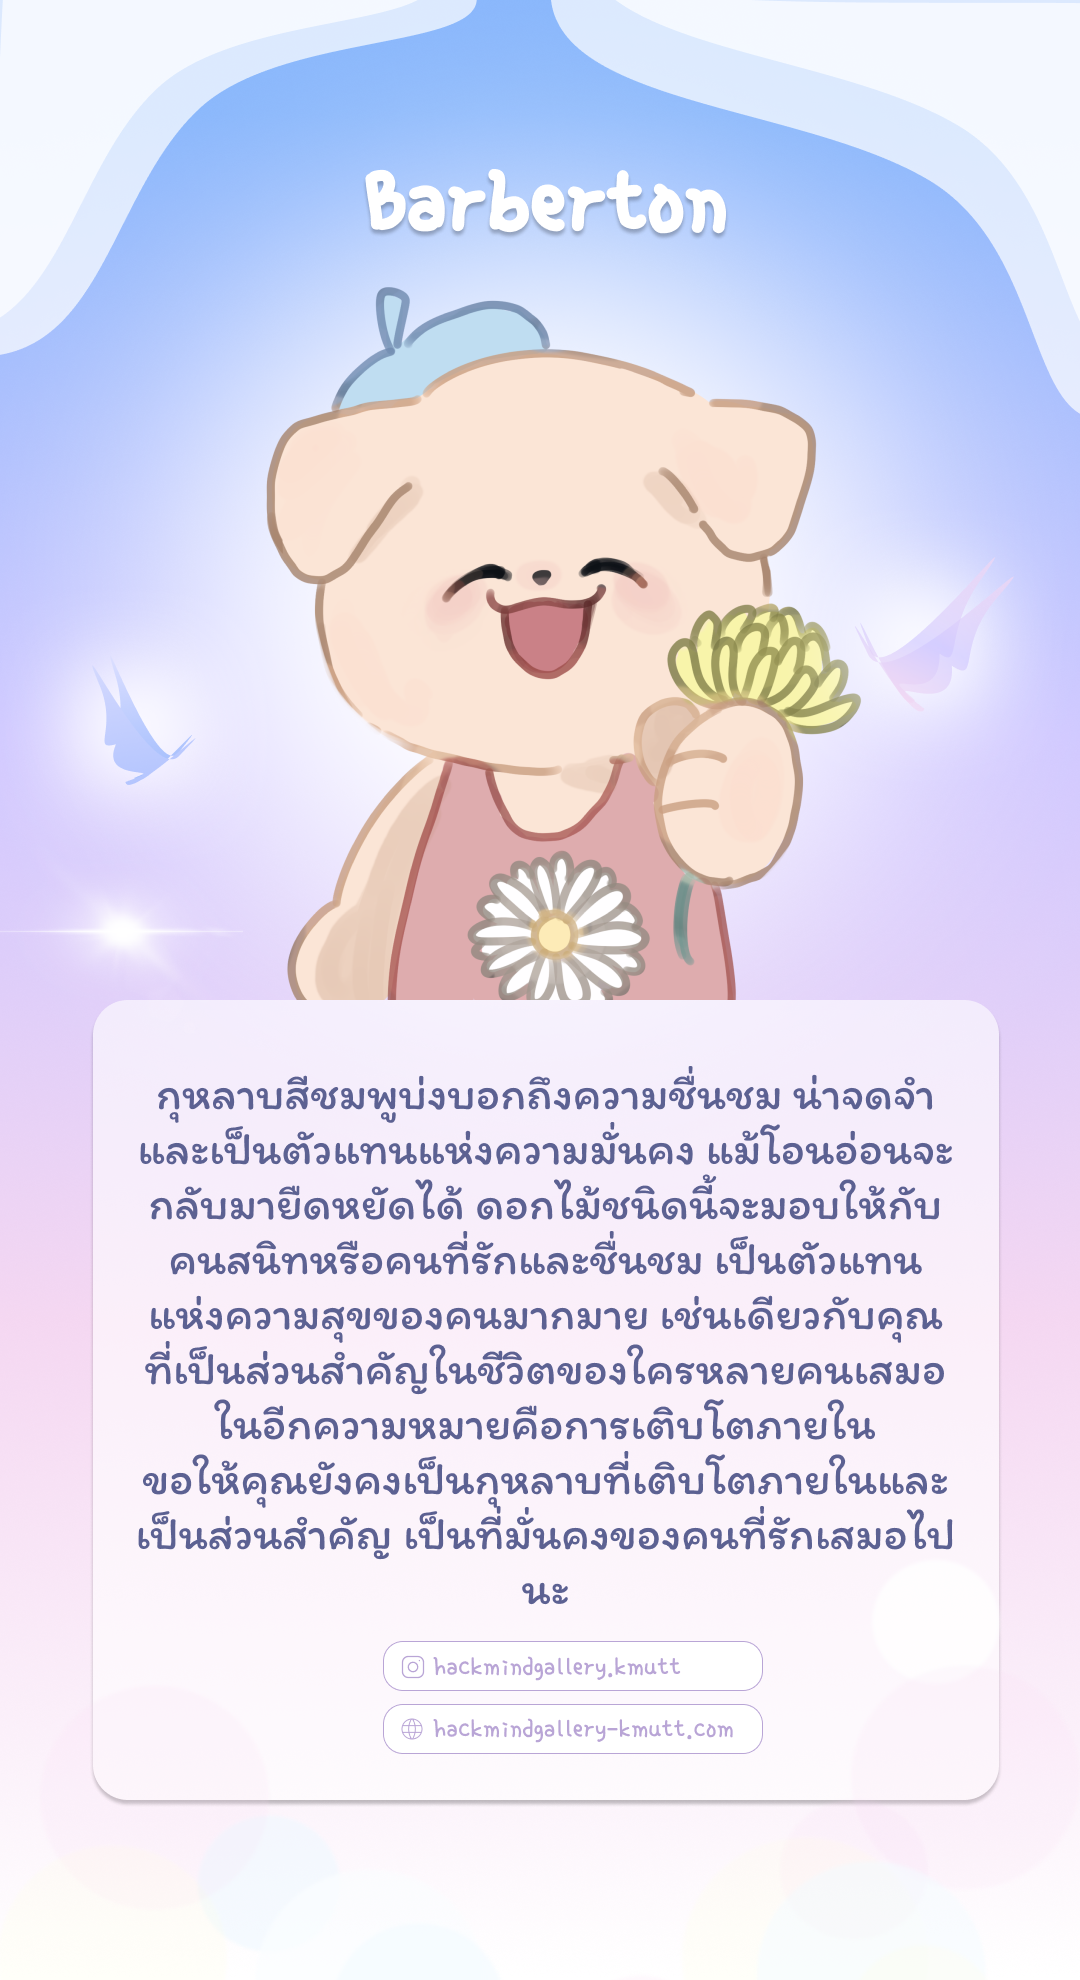
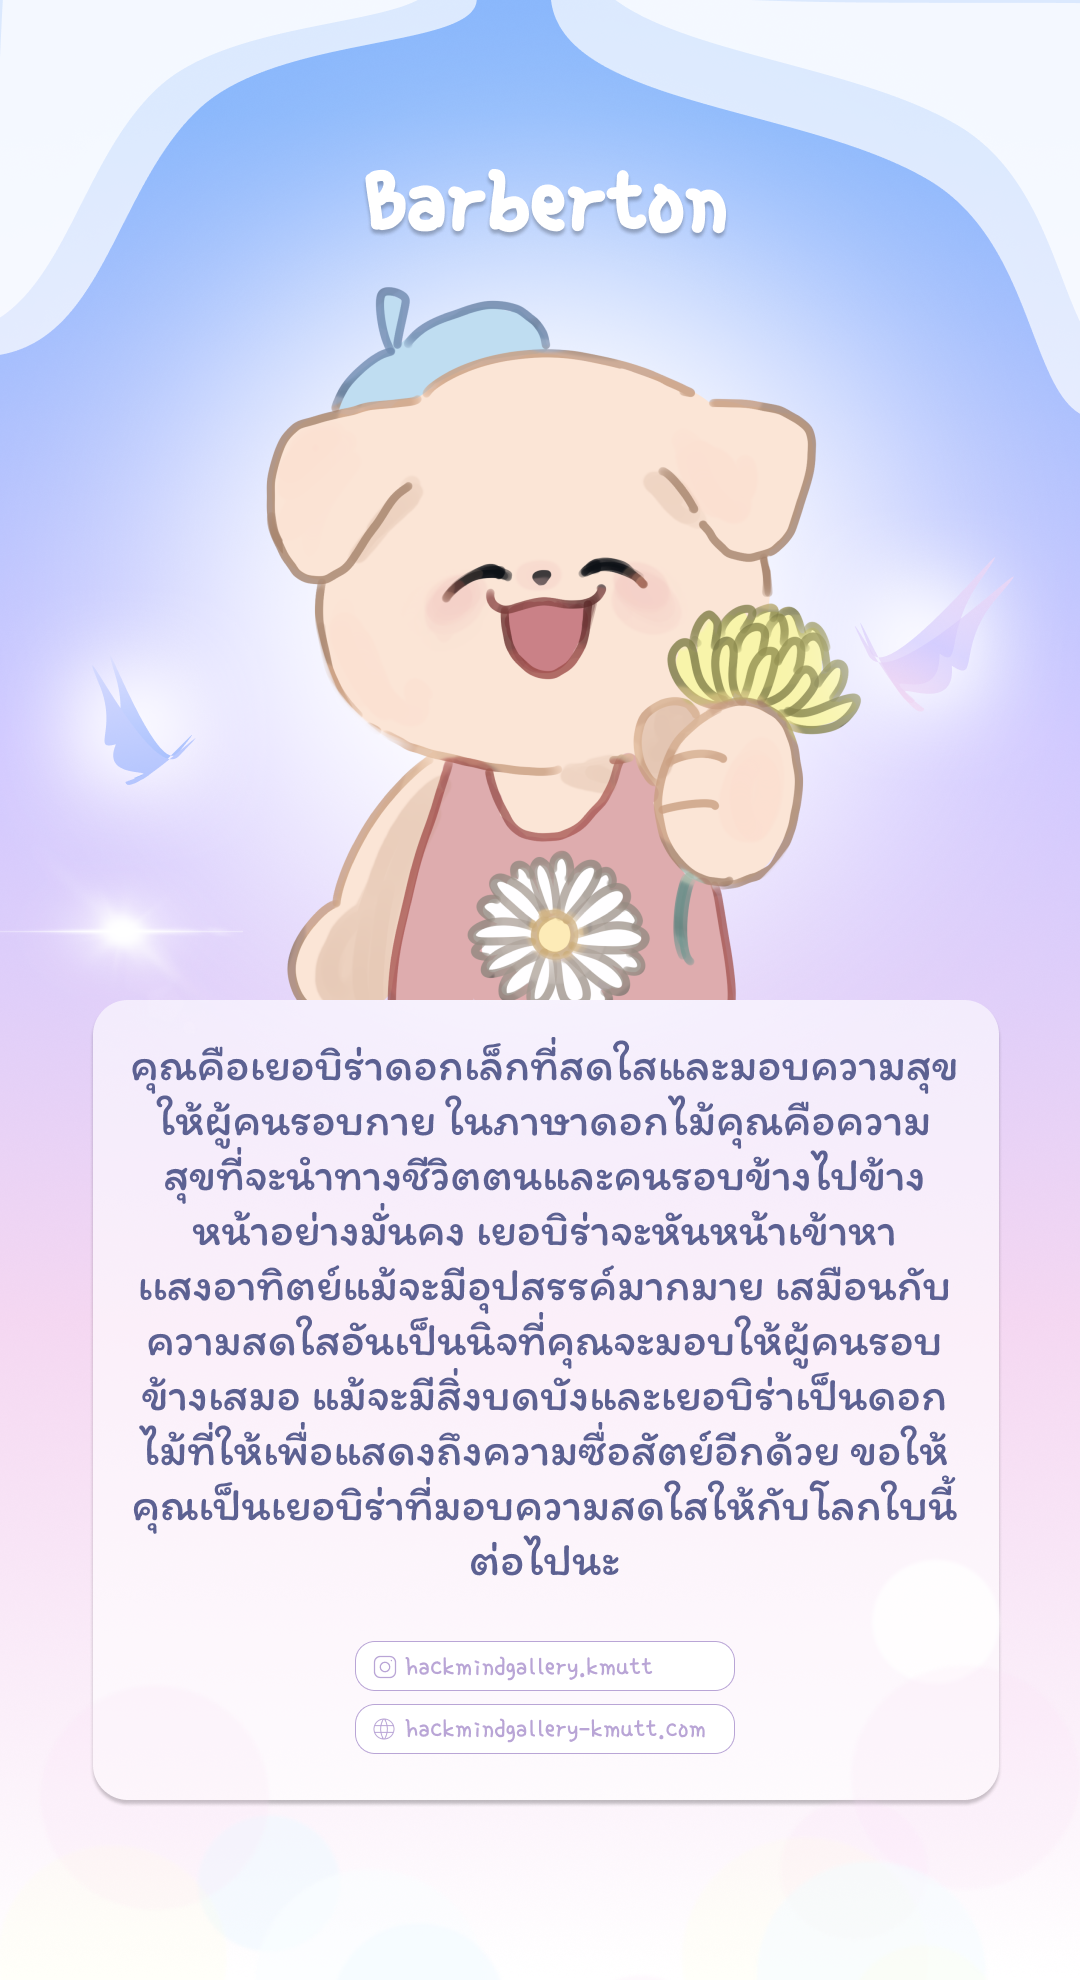
Fix download images text

Changed region(s): [[0.1222, 0.5237, 0.8861, 0.8934]]

diff --git a/constants/seasons.ts b/constants/seasons.ts
@@ -14,7 +14,7 @@ export const seasons: SeasonType[] = [
     description:
       "คุณคือไฮเดรนเยียที่แสดงถึงเจตจำนงแห่งคำขอบคุณ ธรรมชาติของดอกไฮเดรนเยียจะเบ่งบานในช่วงเวลาหนึ่งของฤดู  และเบ่งบานสวยงามได้ดีที่สุดในช่วงฤดูหนาว แต่สามารถเติบโตได้อย่างดีตลอดปีในสถานที่ที่เหมาะสม นัยยะนึงคือดอกไม้ที่อดทน สามารถปรับตัวได้ตามสถานการณ์ เช่นเดียวกับคุณ ที่จะเป็นขึ้นได้อย่างดีในที่ที่เป็นของตัวเอง ขอบคุณไฮเดรนเยีย ขอบคุณคุณ ขอบคุณที่ดำรงอยู่อย่างสวยงามเสมอ",
     imgUrl: "/assets/game/hydrangea.png",
-    downloadUrl: "/assets/game/downloads/hydrangae_download.png",
+    downloadUrl: "/assets/game/downloads/hydrangea_download.png",
     percent: 25,
   },
   {
